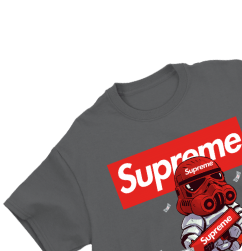
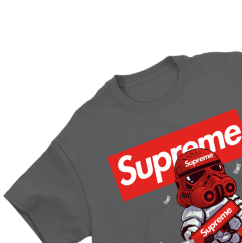
colecao

diff --git a/src/Components/Colecao/Colecao.jsx b/src/Components/Colecao/Colecao.jsx
@@ -7,7 +7,7 @@ import foneDeOuvido from "../../assets/foneDeOuvido.png"
 function Colecao() {
 
   return (
-    <>
+
       <section className="container_colecao">
         <div className="c-content">
 
@@ -16,7 +16,7 @@ function Colecao() {
           <div className="cards">
 
             <div className="card-01">
-              <img id="card-item" src={supremeBlusa} alt="" />
+              
               <div className="content-card">
                 <BotaoDesconto
                   title="30% OFF"
@@ -26,10 +26,12 @@ function Colecao() {
                   title="Comprar"
                 />
               </div>
+              <img className="card-item" src={supremeBlusa} alt="" />
+
             </div>
 
             <div className="card-01">
-              <img id="card-item" src={adidasSapato} alt="" />
+    
               <div className="content-card">
                 <BotaoDesconto
                   title="30% OFF"
@@ -40,11 +42,11 @@ function Colecao() {
                   title="Comprar"
                 />
               </div>
+                        <img className="card-item" src={adidasSapato} alt="" />
             </div>
 
             <div className="card-01">
-              <img id="card-item" src={foneDeOuvido} alt="" />
-              <div className="content-card">
+             <div className="content-card">
                 <BotaoDesconto
                   title="30% OFF"
                 />
@@ -53,13 +55,14 @@ function Colecao() {
                 <CompraBotao
                   title="Comprar"
                 />
-              </div>
+              </div>   
+              <img className="card-item" src={foneDeOuvido} alt="" />
+            
             </div>
 
           </div>
         </div>
       </section>
-    </>
   )
 }
 

diff --git a/src/Components/Colecao/colecao.css b/src/Components/Colecao/colecao.css
@@ -10,6 +10,8 @@
     --black:#1F1F1F;
 }
 
+
+
 *{
     margin: 0;
     padding: 0;
@@ -26,11 +28,13 @@
 
 .c-content{
     margin-top: 2.3rem;
+    width: 100%;
 }
 
 .cards{
     display: flex;
     gap: 0.75rem;
+    padding: 6rem;
 }
 
 .title{
@@ -104,7 +108,7 @@
     color: var(--pink);
 }
 
-#card-item{
-    position: absolute;
-    margin-left: 10.1rem;
+.card-item{
+    /* position: absolute;
+    margin-left: 10.1rem; */
 }

diff --git a/src/PropsPages/CompraBotao.jsx b/src/PropsPages/CompraBotao.jsx
@@ -4,9 +4,10 @@ function CompraBotao(props) {
 
   return (
     <>  
-        <div id='btn-compra'>
+        <a href='#' id='btn-compra'>
           <p id='btn-title-compra'>{props.title}</p>
-        </div>
+        </a>
+        
     </>
   )
 }
